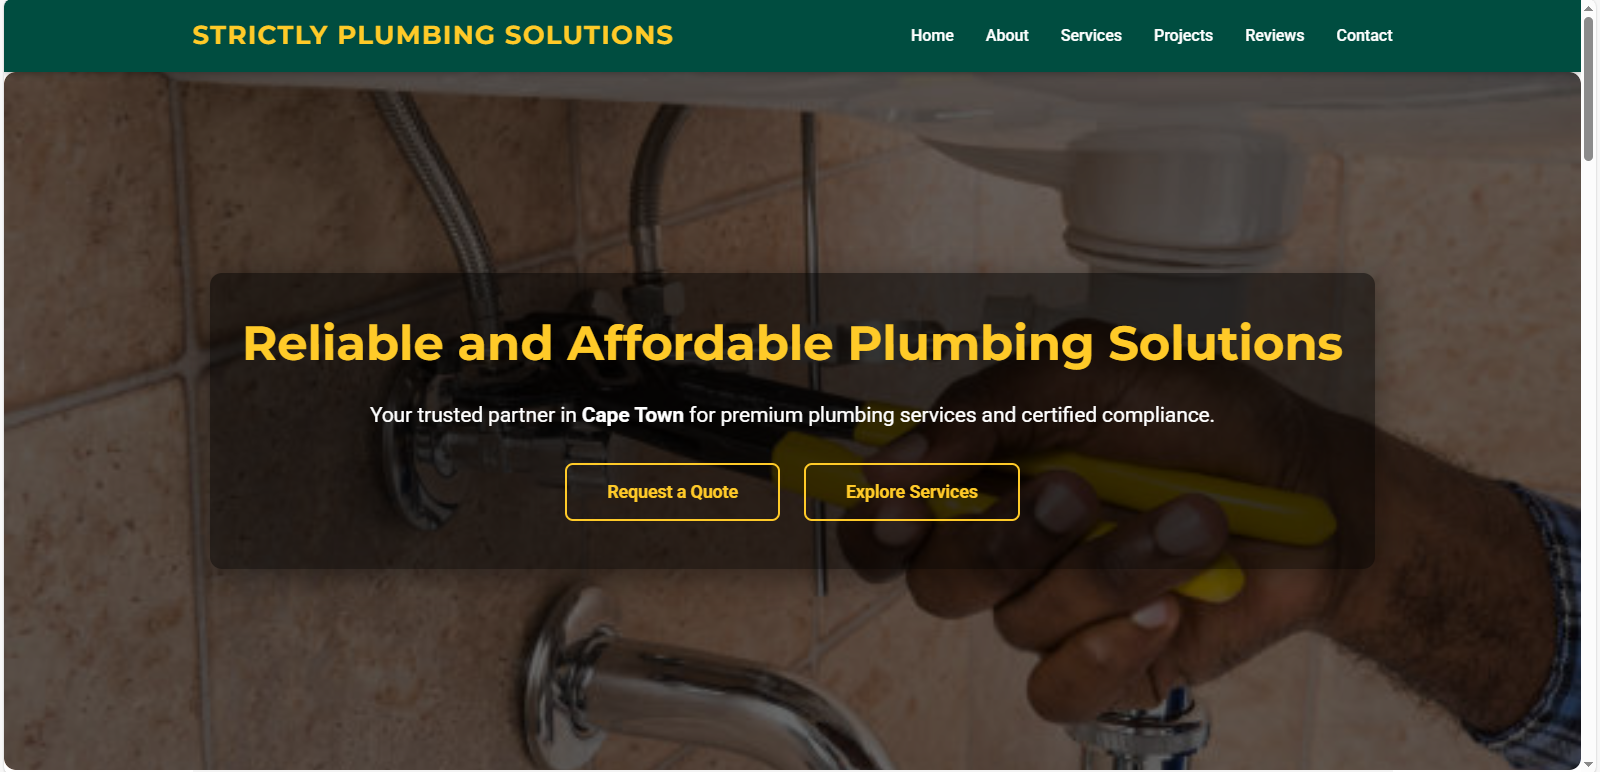
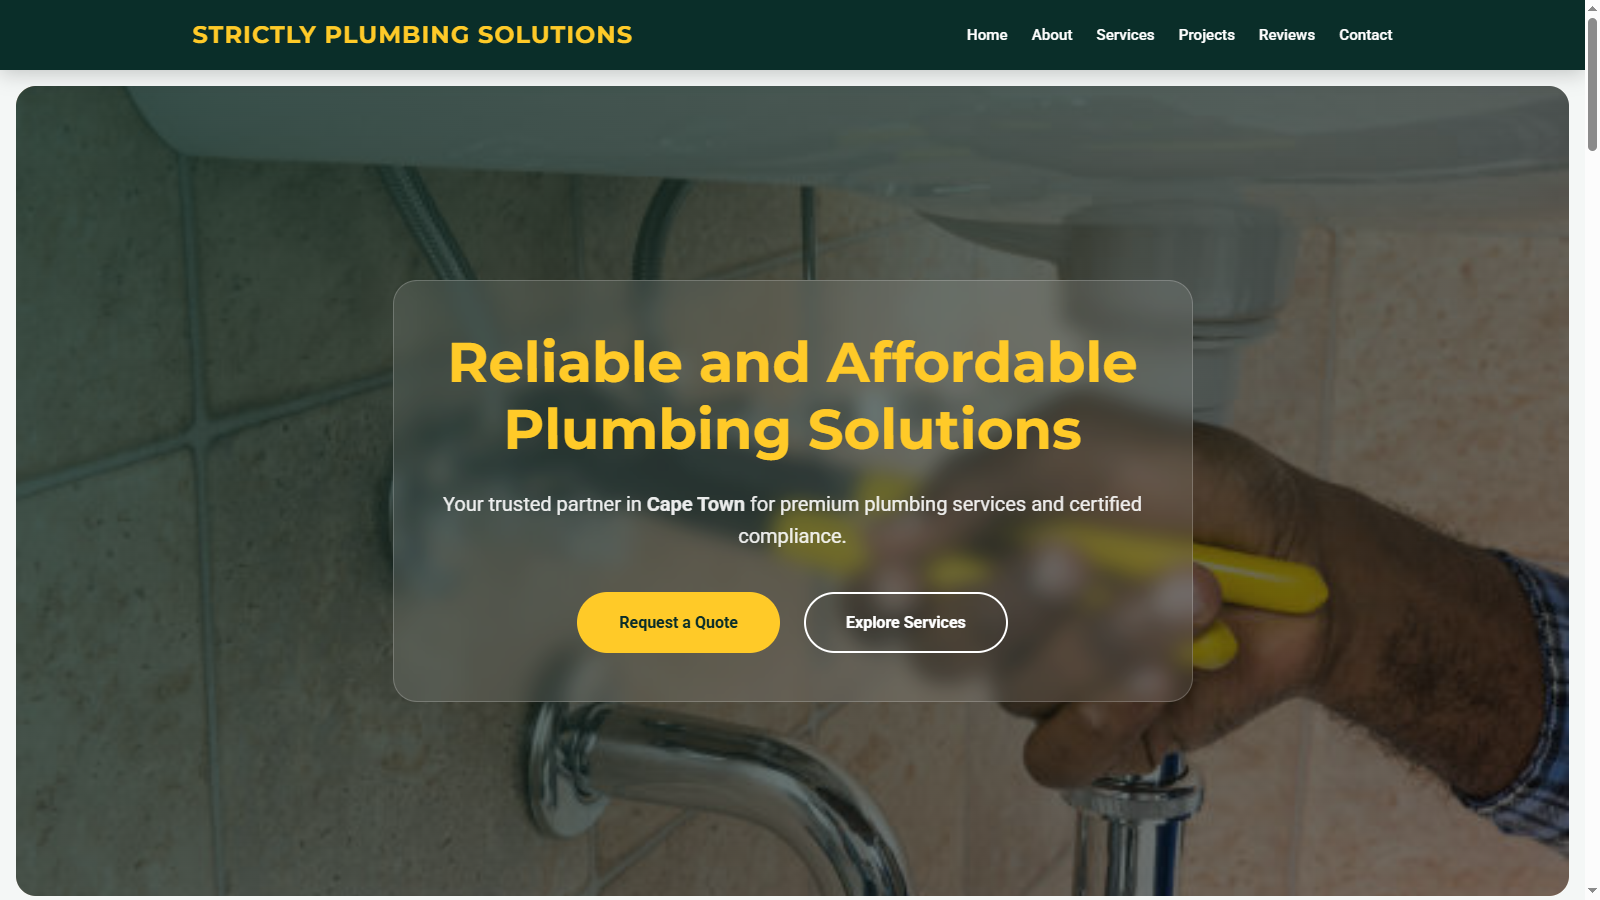
update

diff --git a/index.html b/index.html
@@ -23,17 +23,19 @@
         <li><a href="#skills">Skills</a></li>
         <li><a href="#projects">Projects</a></li>
         <li><a href="#contact">Contact</a></li>
-      </ul>
-      <div class="nav-buttons">
-        <button id="themeToggle" class="theme-btn"><i class="fas fa-moon"></i> Dark Mode</button>
-        <div class="cv-dropdown">
-          <button class="cv-btn"><i class="fas fa-file-alt"></i> CV Options ▾</button>
-          <div class="cv-menu">
-            <a href="cv/S.Malotana-Cv.pdf" target="_blank">View CV</a>
-            <a href="cv/S.Malotana-Cv.pdf" download>Download CV</a>
+        <li class="nav-buttons-item">
+          <div class="nav-buttons">
+            <button id="themeToggle" class="theme-btn"><i class="fas fa-moon"></i> Dark Mode</button>
+            <div class="cv-dropdown">
+              <button class="cv-btn"><i class="fas fa-file-alt"></i> CV Options ▾</button>
+              <div class="cv-menu">
+                <a href="cv/S.Malotana-Cv.pdf" target="_blank">View CV</a>
+                <a href="cv/S.Malotana-Cv.pdf" download>Download CV</a>
+              </div>
+            </div>
           </div>
-        </div>
-      </div>
+        </li>
+      </ul>
     </nav>
   </header>
 
@@ -293,8 +295,8 @@
           <img src="images/plumbling.png" alt="Plumbing Website">
           <div class="project-overlay">
             <div class="project-buttons">
-              <a href="#" target="_blank" class="project-btn"><i class="fas fa-code"></i> View Code</a>
-              <a href="#" target="_blank" class="project-btn"><i class="fas fa-desktop"></i> Live Demo</a>
+              <a href="https://github.com/Ririesphe/Website.git" target="_blank" class="project-btn"><i class="fas fa-code"></i> View Code</a>
+              <a href="https://plumbling.netlify.app/" target="_blank" class="project-btn"><i class="fas fa-desktop"></i> Live Demo</a>
             </div>
           </div>
         </div>

diff --git a/style.css b/style.css
@@ -30,7 +30,7 @@ button{cursor:pointer;}
 header{padding:20px 10%;border-bottom:1px solid rgba(0,0,0,0.1);position:sticky;top:0;background:var(--bg);z-index:100;transition:0.3s;}
 nav{display:flex;justify-content:space-between;align-items:center;flex-wrap:wrap;}
 .logo{font-size:24px;font-weight:700;color:var(--primary);}
-.nav-links{display:flex;gap:25px;list-style:none;}
+.nav-links{display:flex;gap:25px;list-style:none;align-items:center;}
 .nav-links a{font-weight:500;position:relative;transition:0.3s;}
 .nav-links a::after{content:"";position:absolute;width:0;height:2px;bottom:-4px;left:0;background:var(--highlight);transition:width 0.3s;}
 .nav-links a:hover::after{width:100%;}
@@ -38,9 +38,13 @@ nav{display:flex;justify-content:space-between;align-items:center;flex-wrap:wrap
 /* HAMBURGER */
 .hamburger{display:none;font-size:28px;cursor:pointer;}
 @media(max-width:900px){
-  .nav-links{flex-direction:column;position:absolute;top:65px;left:-100%;background:var(--bg);width:100%;transition:0.3s;}
+  nav { flex-wrap: nowrap; }
+  .nav-links{flex-direction:column;position:absolute;top:65px;left:-100%;background:var(--bg);width:100%;transition:0.3s;padding:20px 0;align-items:center;gap:20px;box-shadow:0 10px 15px rgba(0,0,0,0.1);}
   .nav-links.show{left:0;}
   .hamburger{display:block;}
+  .nav-buttons { flex-direction: column; width: 100%; gap: 15px; }
+  .cv-menu { position: relative; top: 10px; right: auto; box-shadow: none; background: rgba(0,0,0,0.05); }
+  body.dark-mode .cv-menu { background: rgba(255,255,255,0.05); }
 }
 
 /* CV DROPDOWN */
@@ -442,7 +446,7 @@ body.dark-mode .about-image img{
    ========================= */
 .projects {
     display: grid;
-    grid-template-columns: repeat(auto-fit, minmax(320px, 1fr));
+    grid-template-columns: repeat(auto-fit, minmax(280px, 1fr));
     gap: 30px;
     margin-top: 20px;
 }
@@ -921,7 +925,6 @@ footer {
   .hero-container{flex-direction:column;text-align:center;}
   .hero-text h1{font-size:36px;}
   .hero-image img{width:200px;height:200px;}
-  nav{flex-direction:column;align-items:flex-start;}
   .section{padding:70px 5%;}
   .about-container{flex-direction:column;text-align:center;}
   .about-image img{width:200px;height:200px;margin-top:20px;}